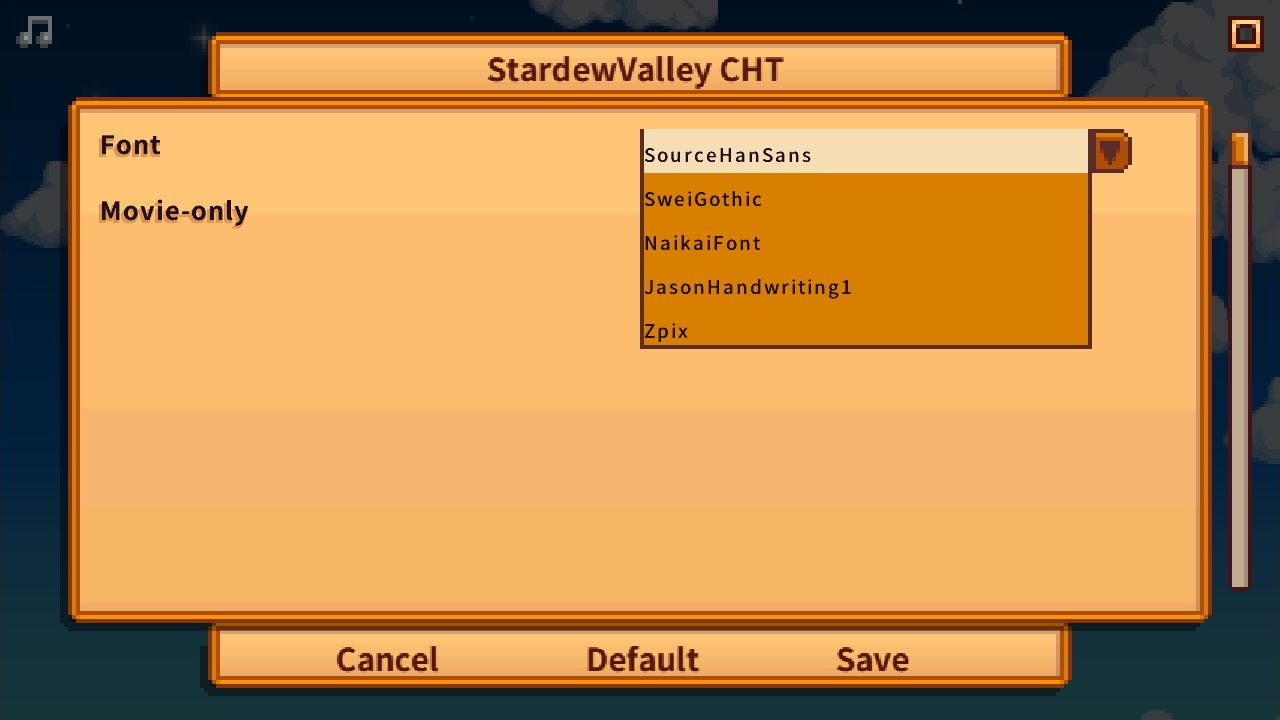
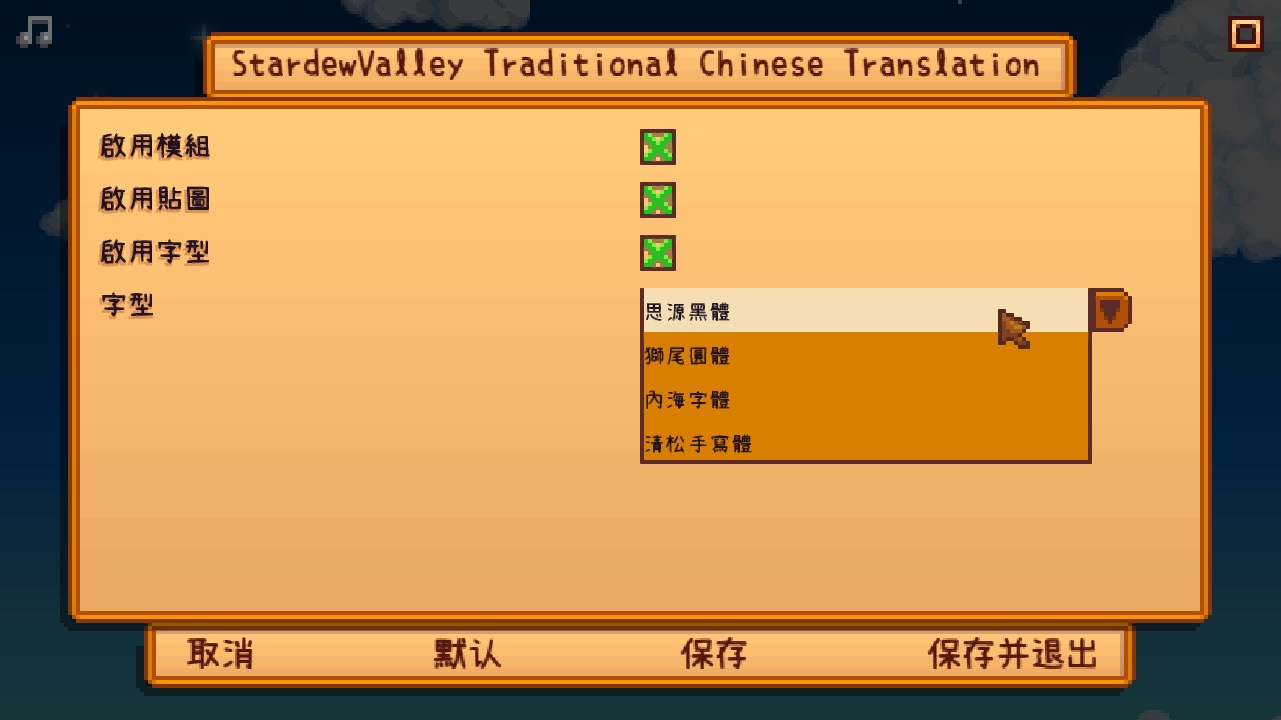
Update to 1.6.2

diff --git a/index.html b/index.html
@@ -51,7 +51,7 @@
 						<div class="content">
 							<div class="inner">
 								<h1>《星露谷物語》正體中文模組</h1>
-								<p>模組版本：<a href="#update">0.9.2</a>  </p>
+								<p>模組版本：<a href="#update">1.6.2</a>  </p>
 							</div>
 						</div>
 						<nav>
@@ -91,10 +91,10 @@
 									<img src="images/sample/font/JasonHandwriting1_01.jpg" style="width:100%">
 									<div class="text">清松手寫體</div>
 								</div>
-								<div class="mySlides fade">
+								<!-- <div class="mySlides fade">
 									<img src="images/sample/font/Zpix_01.jpg" style="width:100%">
 									<div class="text">最像素</div>
-								</div>
+								</div> -->
 								<div class="mySlides fade">
 									<img src="images/sample/font/SourceHanSans_02.jpg" style="width:100%">
 									<div class="text">思源黑體</div>
@@ -111,10 +111,10 @@
 									<img src="images/sample/font/JasonHandwriting1_02.jpg" style="width:100%">
 									<div class="text">清松手寫體</div>
 								</div>
-								<div class="mySlides fade">
+								<!-- <div class="mySlides fade">
 									<img src="images/sample/font/Zpix_02.jpg" style="width:100%">
 									<div class="text">最像素</div>
-								</div>
+								</div> -->
 								<div class="mySlides fade">
 									<img src="images/sample/font/SourceHanSans_03.jpg" style="width:100%">
 									<div class="text">思源黑體</div>
@@ -131,10 +131,10 @@
 									<img src="images/sample/font/JasonHandwriting1_03.jpg" style="width:100%">
 									<div class="text">清松手寫體</div>
 								</div>
-								<div class="mySlides fade">
+								<!-- <div class="mySlides fade">
 									<img src="images/sample/font/Zpix_03.jpg" style="width:100%">
 									<div class="text">最像素</div>
-								</div>
+								</div> -->
 								<!-- Next and previous buttons -->
 								<a class="prev" onclick="plusSlides(-1)">&#10094;</a>
 								<a class="next" onclick="plusSlides(1)">&#10095;</a>
@@ -194,7 +194,7 @@
 								</ul>
 								<h3>聲明</h3>
 								<ol>
-									<li>禁止將本模組用作商業用途。</li>
+									<li>禁止將本模組用作商業用途（實況除外）。</li>
 									<li>禁止擅自轉發本模組及相關檔案。</li>
 									<li>任何財物損失或糾紛，本團隊一概不負責。</li>
 									<li>實況請於資訊欄附上說明及網站連結，可點選下方按鈕複製網址。</li>
@@ -227,8 +227,8 @@
 										<tbody>
 											<tr class="center">
 												<td>PC</td>
-												<td>1.5.4</td>
-												<td>0.9.2</td>
+												<td>1.6.8</td>
+												<td>1.6.2</td>
 											</tr>
 											<!-- <tr>
 												<td>Android</td>
@@ -236,24 +236,24 @@
 												<td>0.9</td>
 											</tr> -->
 										</tbody>
-									</table><!--
+									</table>
 									<table>
 										<thead>
 											<tr>
-												<th>SMAPI 版本</th>
-												<th>Content Patcher 版本</th>
+												<th>SMAPI</th>
+												<th>Content Patcher</th>
 											</tr>
 										</thead>
 										<tbody>
 											<tr class="center">
-												<td>3.13.4</td>
-												<td>1.24.8</td>
+												<td>4.0.8</td>
+												<td>2.2.0</td>
 											</tr>
 										</tbody>
-									</table> -->
+									</table>
 								</div>
-								<h3>說明</h3>
-								<p>本模組分為覆蓋版及 Content Patcher 版（CP 版），以及結合兩者優點的完全版。</p>
+								<!-- <h3>說明</h3>
+								<p>本模組分為覆蓋版及 Content Patcher 版（CP 版）。</p>
 								<div class="table-wrapper">
 									<table class="alt">
 										<thead>
@@ -294,42 +294,18 @@
 												<td style="vertical-align: top;">
 													<ul>	
 														<li>須安裝 SMAPI 模組載入器</li>
-														<li ><a href="#EOL">部分換行顯示不正確</a></li>
-														<li><a href="#conflict">可能會與其他 CP 模組衝突</a></li>
-													</ul>
-												</td>
-											</tr>
-											<tr>
-												<td style="font-weight: bold;">完全版</td>
-												<td style="vertical-align: top;">
-													<ul> 
-														<li>完整正體中文化</li>
-														<li>切換字型容易</li>
-														<li>模組更新提醒</li>
-														<li><span class="tooltip">極少模組衝突<sapn class="tooltiptext">正體模組不會覆蓋掉其他模組</sapn></span></li>
-													</ul>
-												</td>
-												<td style="vertical-align: top;">
-													<ul>	
-														<li>須安裝 SMAPI 模組載入器</li>
-														<li>遊戲版本更新可能無法使用</li>
 													</ul>
 												</td>
 											</tr>
 										</tbody>
-										<tfoot>
-											<tr>
-												<td colspan="3">除非遊戲大更新導致覆蓋版失效，否則建議使用覆蓋版或完全版。</td>
-											</tr>
-										</tfoot>
 									</table>
-								</div>
+								</div> -->
 								<h3>安裝</h3>
 								<p></p>
 								<ul class="actions">
-									<li><a href="#Cover" class="button icon solid fa-fire">覆蓋版</a></li>
+									<!-- <li><a href="#Cover" class="button icon solid fa-fire">覆蓋版</a></li> -->
 									<li><a href="#ContentPatcher" class="button icon solid fa-circle">CP 版</a></li>
-									<li><a href="#Mix" class="button icon solid fa-mortar-pestle">完全版</a></li>
+									<!-- <li><a href="#Mix" class="button icon solid fa-mortar-pestle">完全版</a></li> -->
 									<!-- <li><a href="#android" class="button icon brands fa-android">Android</a></li> -->
 								</ul>
 								<h3>其他</h3>
@@ -387,7 +363,7 @@
 									</ol>
 									
 								<h3>切換字型</h3>
-								<p>點選遊戲主畫面左下角的齒輪選項，選擇「StardewValley CHT」，並修改「Font」選項後重新啟動遊戲即可。（須安裝 Generic Mod Config Menu）<span class="image main"><img src="images/sample/changefont.jpg"></span></p>
+								<p>點擊遊戲主畫面左下角的齒輪（須安裝 Generic Mod Config Menu），修改「字型」選項。<br />切換後若遇亂碼請重啟遊戲，或切換至其他語言再切回中文。<span class="image main"><img src="images/sample/changefont.jpg"></span></p>
 								
 								<h4>手動切換</h4>
 								<p>開啟模組資料夾內的 config 設定檔，將「"Font": "SourceHanSans"」的「SourceHanSans」改為下列對應值即可。（config 設定檔須啟動遊戲才會建立）</p>
@@ -411,10 +387,10 @@
 											<td>清松手寫體</td>
 											<td>JasonHandwriting1</td>
 										</tr>
-										<tr>
+										<!-- <tr>
 											<td>最像素</td>
 											<td>Zpix</td>
-										</tr>
+										</tr> -->
 									</tbody>
 								</table>
 							</article>
@@ -446,6 +422,38 @@
 						<!-- Update -->
 							<article id="update">
 								<h2 class="major">更新日誌</h2>
+								<h3>1.6.2</h3>
+								<h6>2024/06/16</h6>
+								<ul>
+									<li>現在模組會優先於其他模組載入，可大幅減少<span class="tooltip">模組衝突<span class="tooltiptext">正體模組覆蓋其他模組</span></span></li>
+									<li>新增自訂選項；現在可以開啟或關閉貼圖、字型，或整個模組</li>
+								</ul>
+								<a class="button small icon solid fa-arrow-down">詳細列表</a>
+								<ul class="spoiler">
+									<li><span class="tooltip">版本號碼已更新<span class="tooltiptext">對，這是錯誤</span></span></li>
+									<li>選項新增中英雙語與註解</li>
+									<li>圖書館書本中，芥蘭菜應為甘藍（kale）；大麥應為小麥（wheat）</li>
+									<hr />
+								</ul>
+								<hr />
+								<h3>1.6.1</h3>
+								<h6>2024/06/10</h6>
+								<ul>
+									<li>修復字型選項（Zpix 字型避免爭議已移除）</li>
+								</ul>
+								<hr />
+								<h3>1.6.0</h3>
+								<h6>2024/06/09</h6>
+								<ul>
+									<li>更新至 1.6 版</li>
+								</ul>
+								<a class="button small icon solid fa-arrow-down">詳細列表</a>
+								<ul class="spoiler">
+									<li>修正<span class="tooltip">迪馬崔斯洞穴事件<span class="tooltiptext">「食菇蝠或果蝠（mushrooms or fruit bats）」應為「蘑菇或果蝠」</span></span>誤譯</li>
+									<li>一大堆，對一大堆</li>
+									<hr />
+								</ul>
+								<hr />
 								<h3>0.9.2</h3>
 								<h6>2021/06/06</h6>
 								<ul>
